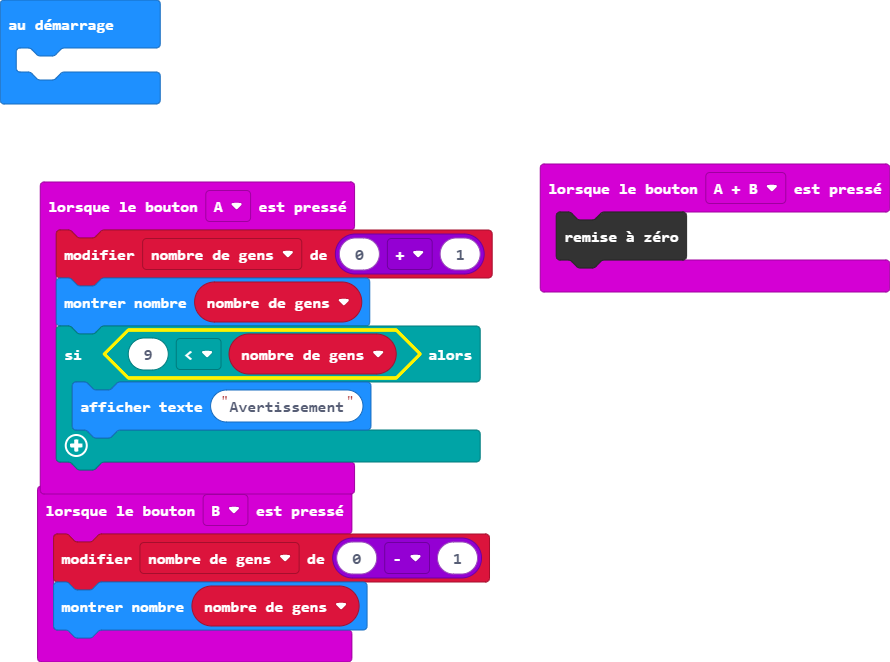
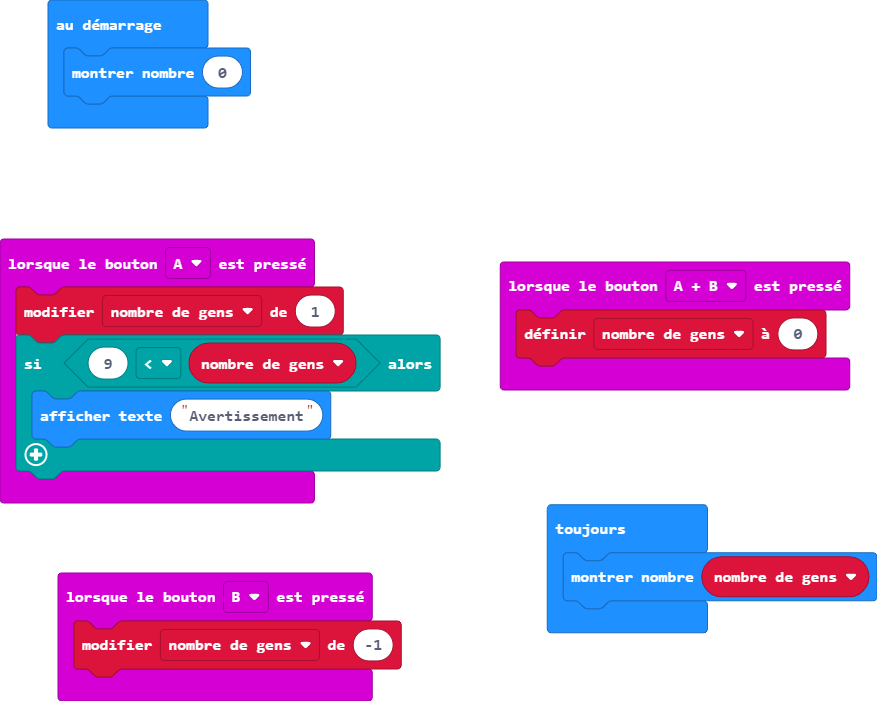
Mise à jour main.blocks, main.ts

diff --git a/main.ts b/main.ts
@@ -1,15 +1,17 @@
-let nombre_de_gens = 0
 input.onButtonPressed(Button.A, function () {
-    nombre_de_gens += 0 + 1
-    basic.showNumber(nombre_de_gens)
+    nombre_de_gens += 1
     if (9 < nombre_de_gens) {
         basic.showString("Avertissement")
     }
 })
 input.onButtonPressed(Button.AB, function () {
-    control.reset()
+    nombre_de_gens = 0
 })
 input.onButtonPressed(Button.B, function () {
-    nombre_de_gens += 0 - 1
+    nombre_de_gens += -1
+})
+let nombre_de_gens = 0
+basic.showNumber(0)
+basic.forever(function () {
     basic.showNumber(nombre_de_gens)
 })
